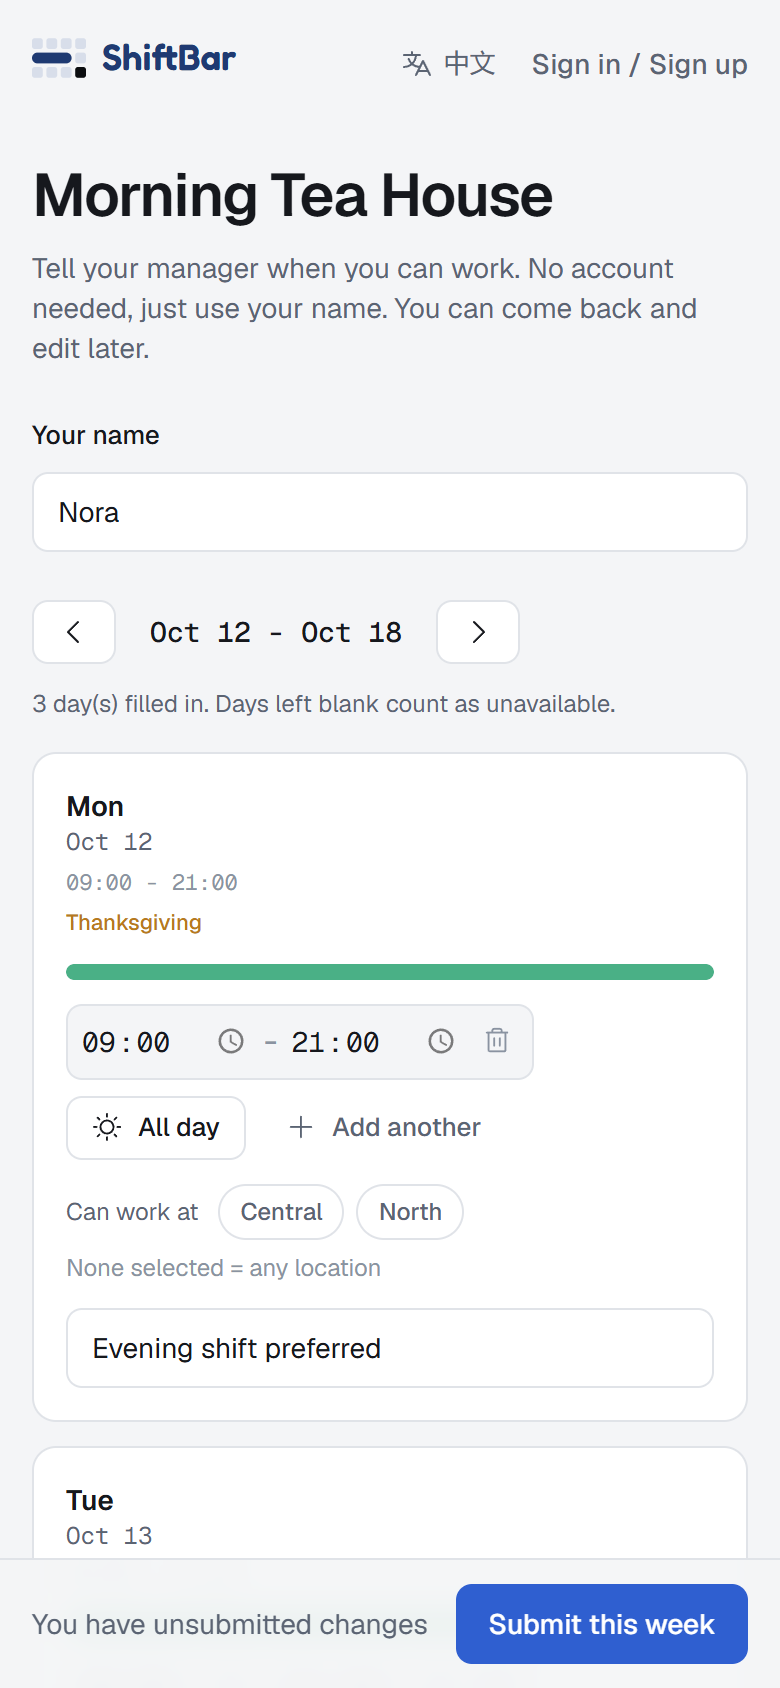
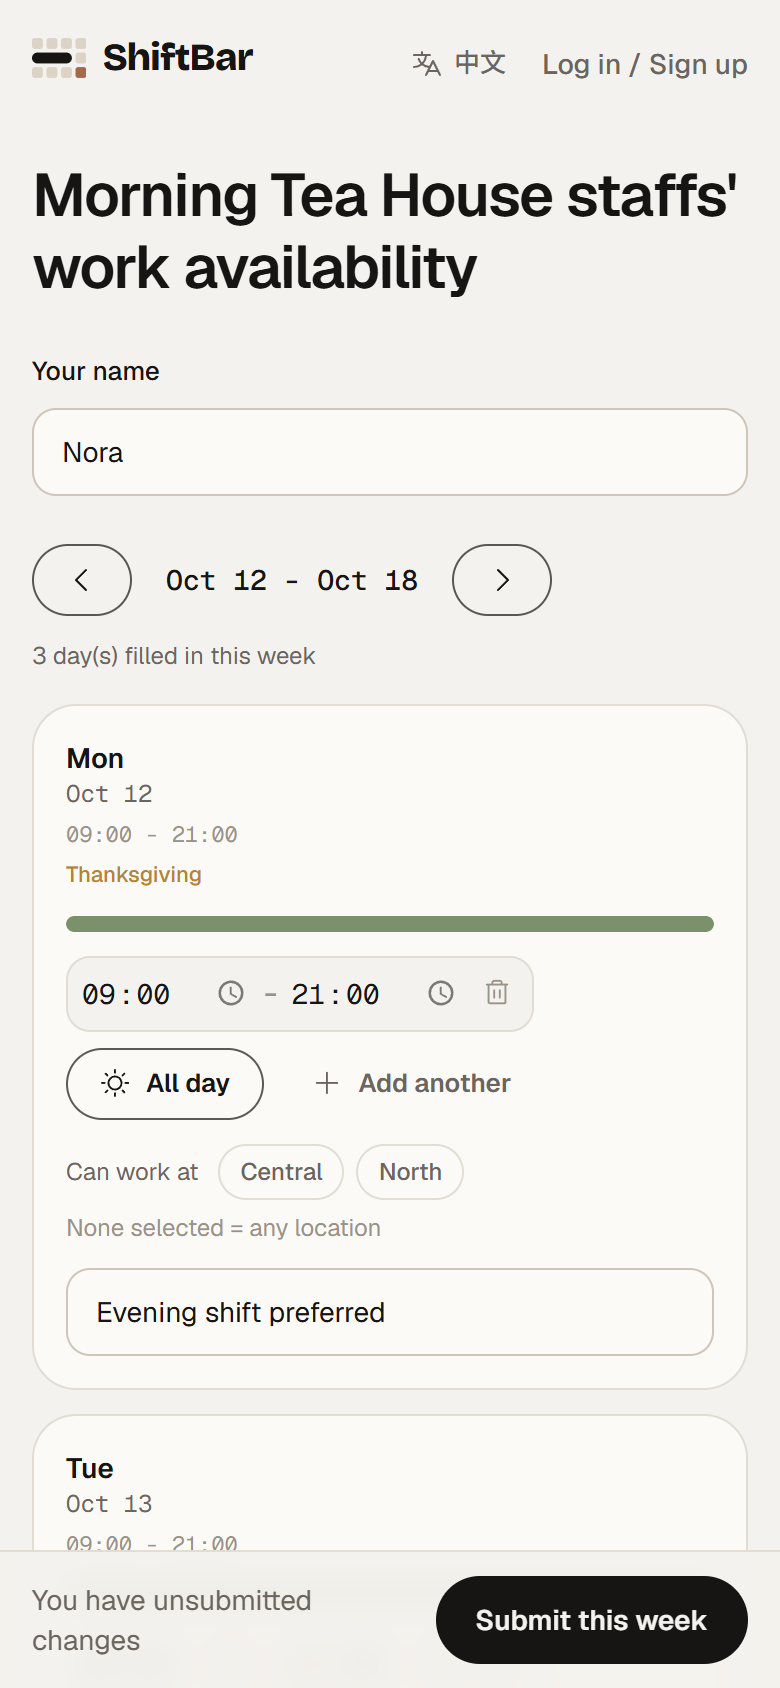
README: lead with the home page screenshot; refresh all screenshots for the new design

diff --git a/README.en.md b/README.en.md
@@ -1,8 +1,5 @@
 <p align="center">
-  <picture>
-    <source media="(prefers-color-scheme: dark)" srcset="docs/assets/shiftbar-logo-dark.svg">
-    <img alt="ShiftBar" src="docs/assets/shiftbar-logo-light.svg" width="230">
-  </picture>
+  <a href="https://shift-scheduler-pi-ten.vercel.app/"><img alt="ShiftBar home page: an oversized wordmark above a schedule card with a draggable shift" src="docs/screenshots/en/landing.png" width="900"></a>
 </p>
 
 <h3 align="center">Shift scheduling for small shops</h3>

diff --git a/README.md b/README.md
@@ -1,8 +1,5 @@
 <p align="center">
-  <picture>
-    <source media="(prefers-color-scheme: dark)" srcset="docs/assets/shiftbar-logo-dark.svg">
-    <img alt="ShiftBar" src="docs/assets/shiftbar-logo-light.svg" width="230">
-  </picture>
+  <a href="https://shift-scheduler-pi-ten.vercel.app/"><img alt="ShiftBar 首页：超大的字标，下面是一张可以拖动班次的排班卡片" src="docs/screenshots/zh/landing.png" width="900"></a>
 </p>
 
 <h3 align="center">小店排班工具</h3>
